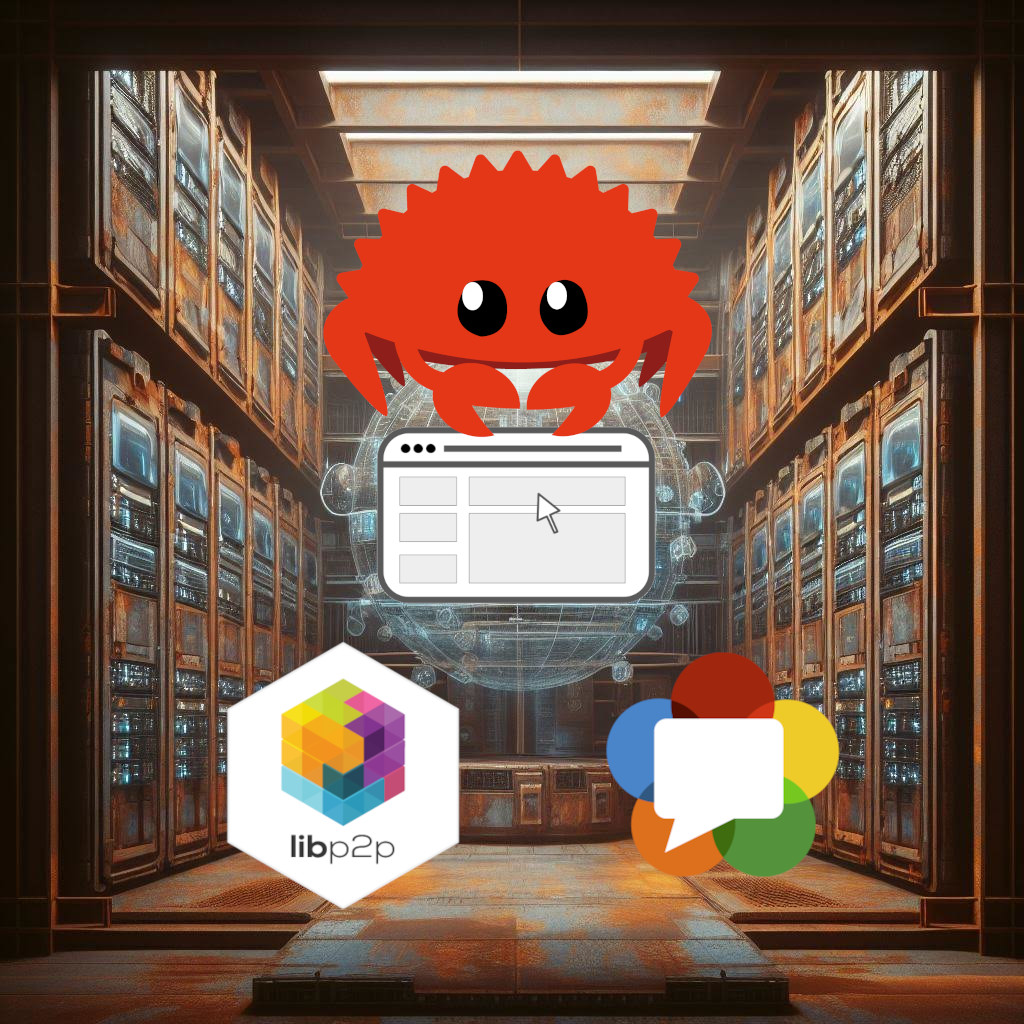
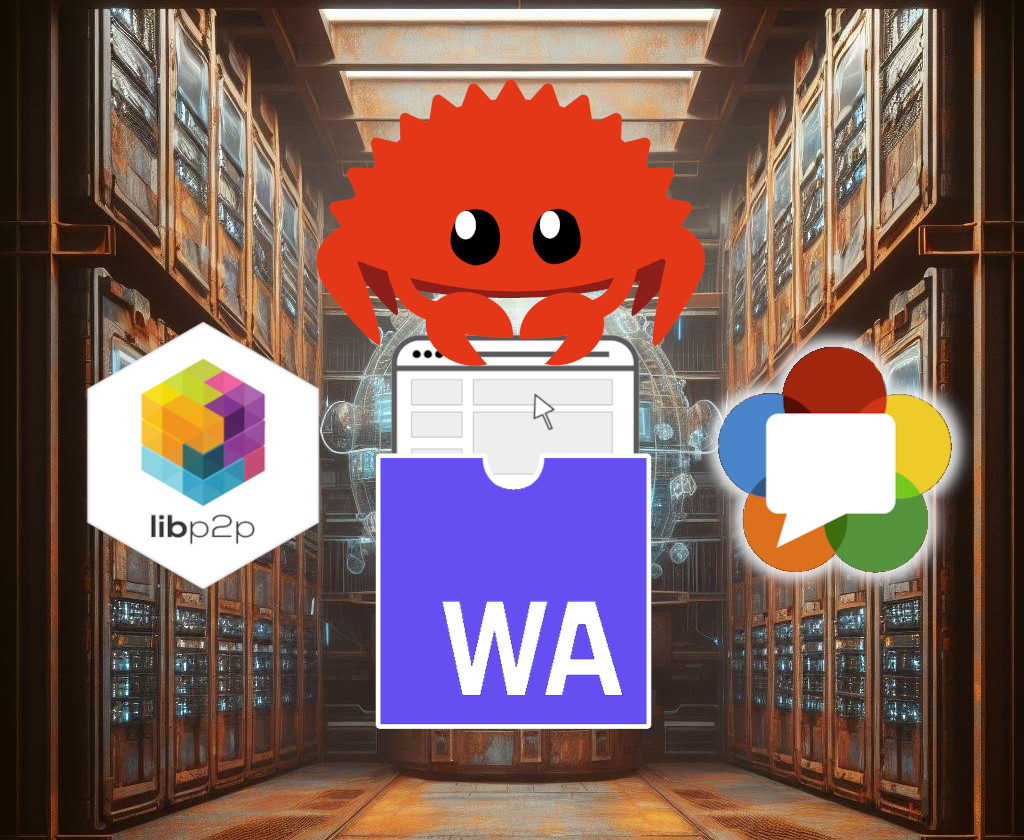
more writing...

diff --git a/src/_blog/rust-libp2p-browser-to-server.md b/src/_blog/rust-libp2p-browser-to-server.md
@@ -1,10 +1,13 @@
 ---
 tags:
   - rust-libp2p
+  - rust
   - libp2p
   - browser
   - webrtc
-title: Rust libp2p in the Browser with WebRTC!
+  - webassembly
+  - wasm
+title: Rust-libp2p in the Browser with WebRTC!
 description: News about how rust-libp2p now connects with the network via WebRTC
 date: 2023-11-07
 permalink: ''
@@ -15,25 +18,29 @@ author: DougAnderson444
 
 # Rust-libp2p WebRTC now available in the Browser
 
-WebRTC is now available (in alpha) for use as a browser Transport for rust-libp2p! Before now, WebRTC was only available on the server-side in rust-libp2p, but after months of coding and reviews, it is available on both the server and in the browser.
+WebAssembly WebRTC is now available for use as a browser transport with rust-libp2p! Before now, WebRTC was only available on the server in `rust-libp2p`, but after months of coding and reviews, we are pleased to annouce it is available on both the server and in the browser.
 
-## Why WebRTC?
+## Why WebRTC for libp2p?
 
 ### Data Channels
 
-WebRTC is a peer-to-peer protocol that allows browsers and servers to connect to each other. It's main focus is to connect media (audio and video), however there is also a [data channel](https://webrtc.org/getting-started/data-channels) available which is what libp2p uses. By tapping into the data channel API, we have been able to build libp2p Transports over WebRTC.
+WebRTC's main purpose in peer-to-peer communications is for connecting media (audio and video). However, there is also a powerful [data channel](https://webrtc.org/getting-started/data-channels) API available which allows users to exchange data streams instead of audio/video. This is what libp2p uses at the transport layer. By tapping into this data channel API, we have been able to build libp2p Transports over WebRTC.
 
-### Server vs Browser WebRTC
+### Server WebRTC vs Browser WebRTC
 
-Using WebRTC on the server involves using a Rust library, but in the browser it is available to Rust libraries through browser bindings from a crate called [`web-sys`](https://docs.rs/web-sys/latest/web_sys/). By tying the libp2p code to these WebRTC bindings, we have been able to connect in the browser over WebRTC in pure Rust!
+Using WebRTC on the server involves using a Rust crate (currently [webrtc-rs](https://github.com/webrtc-rs/webrtc)), but in the browser it is available to Rust through browser bindings from a crate called [`web-sys`](https://docs.rs/web-sys/latest/web_sys/). By tying the libp2p code to these WebRTC bindings, we have been able to connect in the browser over WebRTC in pure Rust compiled to WebAssembly!
 
 ### Benefits of WebRTC over websockets and webtransport
 
-The benefit of using WebRTC on the server is that the server does not need certificates provided by TLS and a domain name -- you can run a home server over WebRTC without a dotcom! In rust-libp2p we can use self-signed certificates to enable the connections. Websocket would require TLS certificates. Webtransport can connect with self-signed certificates, however this transport cannot connect browser-to-browser like WebRTC can.
+One of the main benefits of using WebRTC on the server is that the it does not need TLS certificates from a DNS domain -- you can run a home server over WebRTC without a dotcom! Instead, with `rust-libp2p` we can use self-signed certificates to provide the secure connections. Websockets however would require TLS certificates.
+
+The second major benefot of WebRTC is it enables (eventual\*) direct browser-to-browser communication. Though webtransport can connect with self-signed certificates, it cannot connect browser-to-browser like WebRTC can.
+
+> \*Note: This is a common point of confusion for WebRTC when connecting two browsers together. Although the browser can _eventually_ connect directly, to set up this direct connection we need a signalling server. In the case of libp2p, we can use a libp2p server to conduct this signalling by using circuit relay. But we always need the WebRTC server first. This server can be any libp2p node that is not running in the browser, it could be a home computer for example.
 
 With WebRTC rust-libp2p now available in the browser, we can enable developers to build full stack applications in rust without the need for a domain name or external server.
 
-### Benefits over using js-libp2p-webrtc
+### Benefits of Full Stack rust-webrtc
 
 Before now, the only way the browser could connect to a rust-libp2p server over WebRTC was to use [js-libp2p](https://github.com/libp2p/js-libp2p).
 
@@ -41,7 +48,7 @@ However, full stack rust-libp2p WebRTC is so beneficial. First, troubleshooting 
 
 ## How does libp2p use WebRTC?
 
-The bindings to web_sys are implemented as a Transport. This means that you can connect to the network in the browser as you would on the server. There is a full stack example [in the repo](https://github.com/libp2p/rust-libp2p/tree/master/examples/browser-webrtc).
+The bindings to [web-sys](https://docs.rs/web-sys/latest/web_sys/) are implemented as a transport, which means that you can connect to the libp2p network from the browser as you would any other transport in `rust-libp2p`. There is a full stack example [in the repo](https://github.com/libp2p/rust-libp2p/tree/master/examples/browser-webrtc).
 
 ## Tutorial
 
